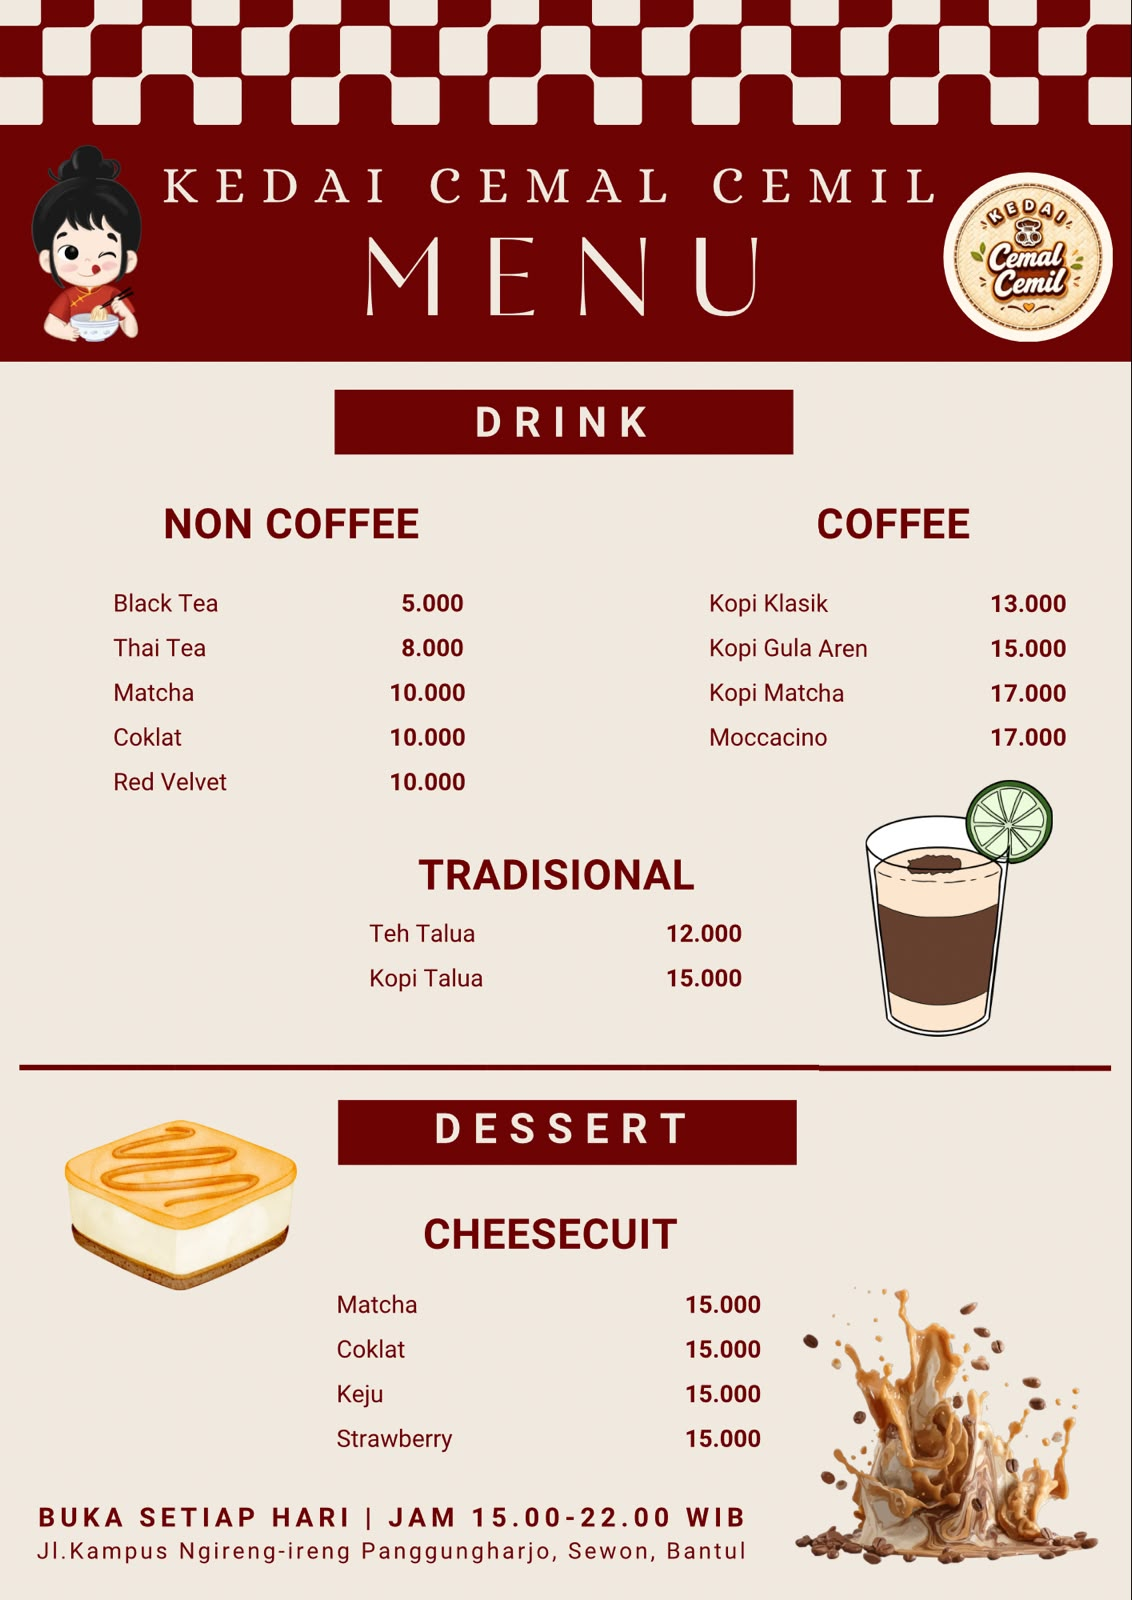
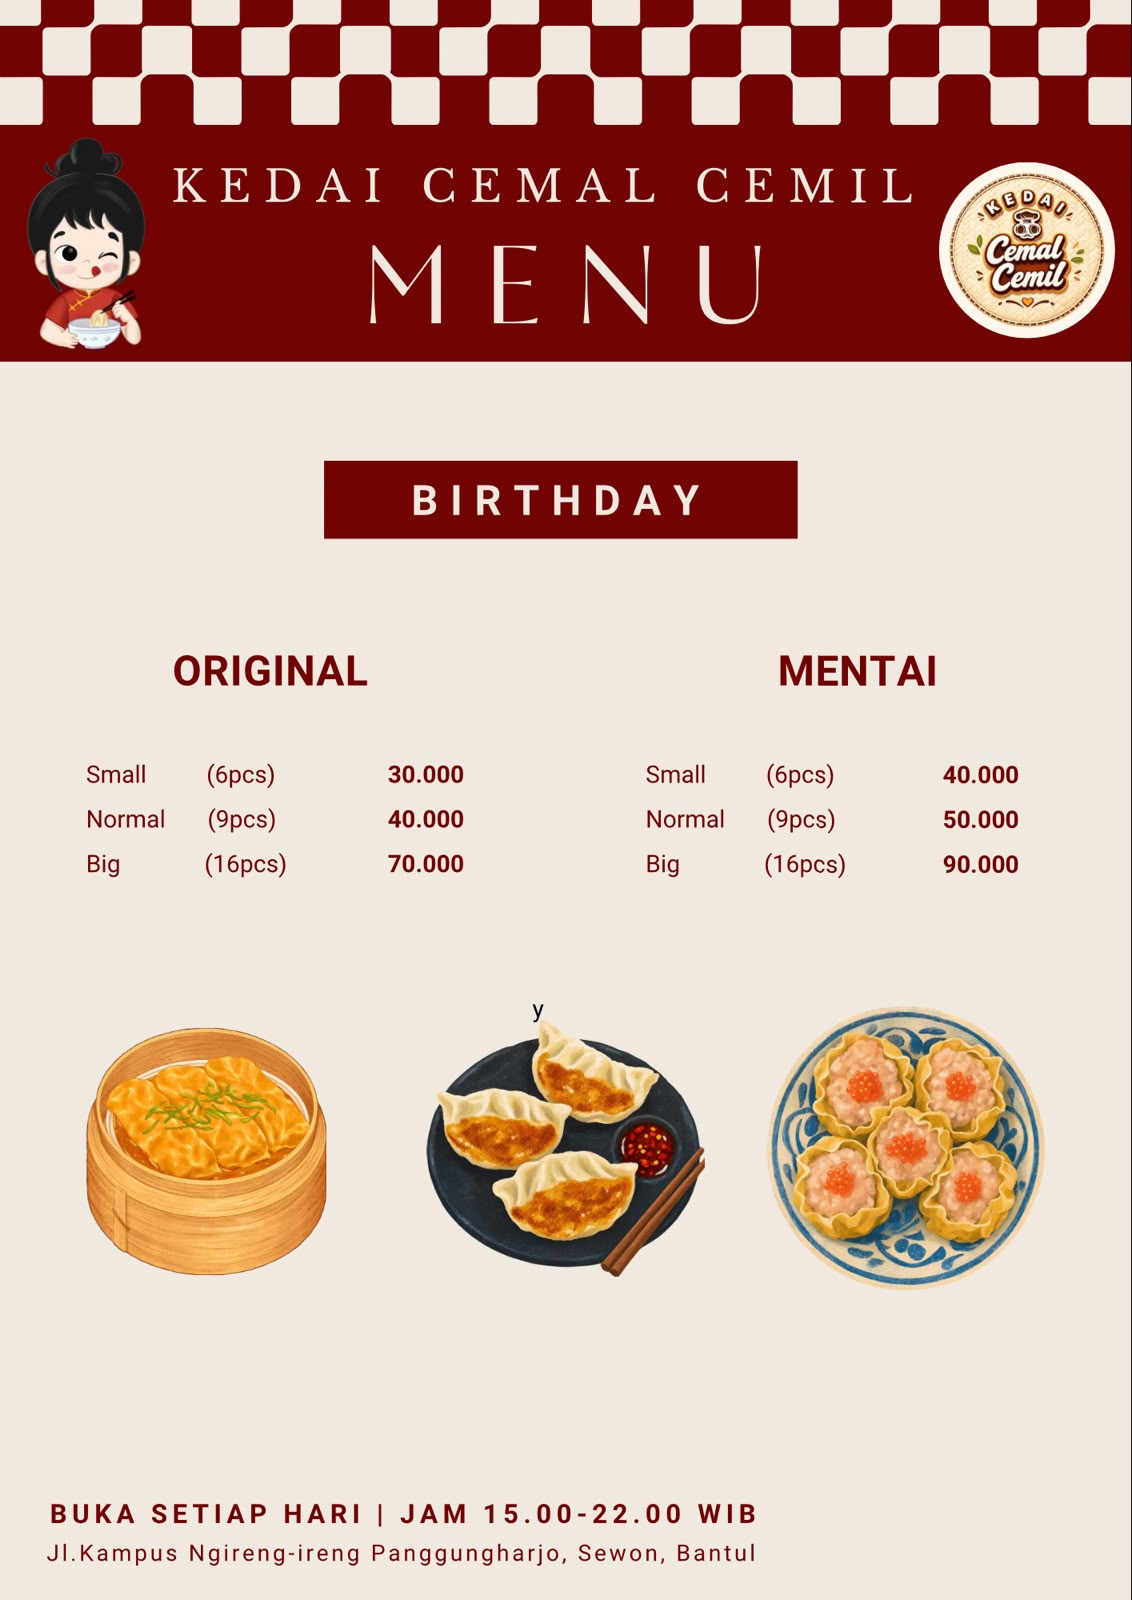
Update Kedai Cemal Cemil

diff --git a/index.html b/index.html
@@ -588,6 +588,12 @@
         class="menu-image"
       >
 
+      <img
+        src="menu3.jpeg"
+        alt="Pricelist Kedai Cemal Cemil"
+        class="menu-image"
+      >
+
     </div>
 
   </div>
